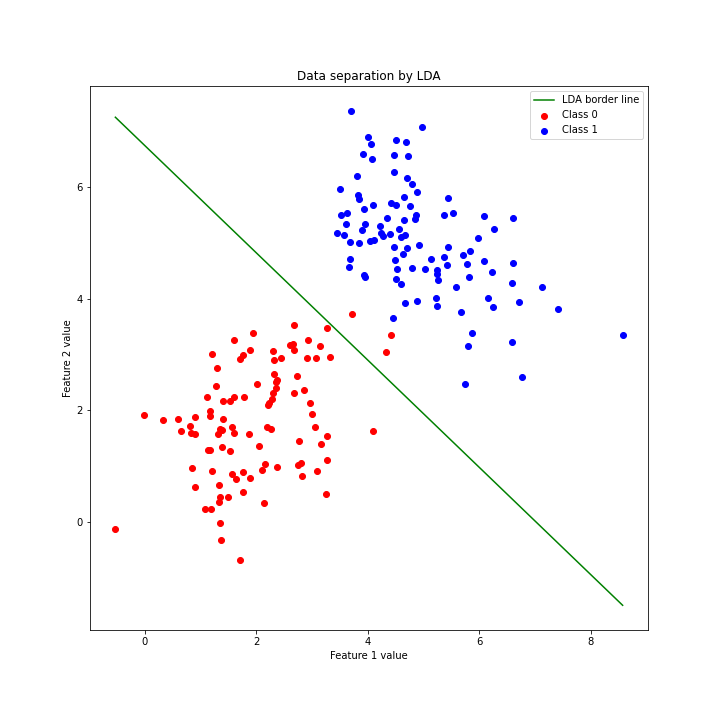
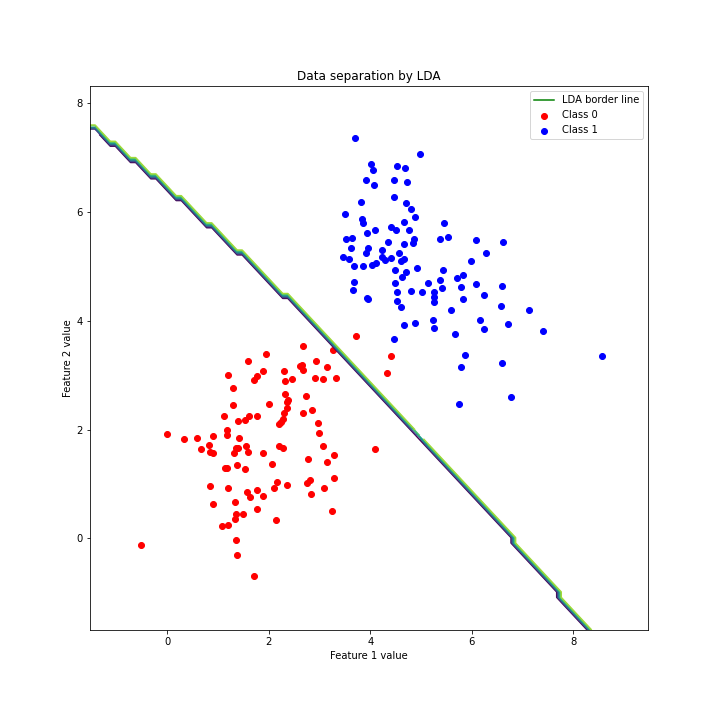
refactor find_border function

diff --git a/lab_1/BinaryClassifiers.py b/lab_1/BinaryClassifiers.py
@@ -72,6 +72,30 @@ class BinaryClassifier(ABC):
     def get_params(self) -> dict:
         ...
 
+    def find_border(self) -> tuple[np.array, np.array, np.array]:
+        """
+        Looking for x, z, y parameters for drawing border line between classes.
+        """
+        x_min = self.x[:, 0].min() - 1
+        x_max = self.x[:, 0].max() + 1
+
+        y_min = self.x[:, 1].min() - 1
+        y_max = self.x[:, 1].max() + 1
+
+        xx, yy = np.meshgrid(
+            np.arange(x_min, x_max, 0.1),
+            np.arange(y_min, y_max, 0.1)
+            )
+
+        z = np.array(
+            [
+                self.predict([a, b])
+                for a, b in zip(np.ravel(xx), np.ravel(yy))
+            ]
+            ).reshape(xx.shape)
+
+        return xx, yy, z
+
 
 class LDA(BinaryClassifier):
     def _calc_avg(self) -> dict[str, np.array]:
@@ -124,30 +148,6 @@ class LDA(BinaryClassifier):
         self.class_avg: dict[str, np.array] = self._calc_avg()
         self.class_std: dict[str, np.array] = self._calc_std()
         self.cov_matrix: np.array = self._calc_cov_matrix()
-
-    def find_border(self) -> tuple[float, float, float]:
-        """
-        Calculating border line between classes.
-        Function calculatin parameters: a, b, c
-        Which you can use to calc the line based on x points:
-            y(x) = -(c + a*x) / b
-
-        Output:
-         * parameters: tuple[float, flaot, float]
-        """
-        cov_inv = np.linalg.inv(self.cov_matrix)
-
-        a = (self.class_avg[0] - self.class_avg[1]).dot(cov_inv)[0]
-        b = (self.class_avg[0] - self.class_avg[1]).dot(cov_inv)[1]
-        c = (
-            -0.5 *
-            (
-                self.class_avg[0].dot(cov_inv).dot(self.class_avg[0]) -
-                self.class_avg[1].dot(cov_inv).dot(self.class_avg[1])
-            )
-        )
-
-        return a, b, c
 
     def predict_proba(self, x: list, the_class: str) -> float:
         class_prob = 1
@@ -218,27 +218,6 @@ class QDA(BinaryClassifier):
             "cov_matrix": self.cov_matrix
         }
 
-    def find_border(self) -> tuple[np.array, np.array, np.array]:
-        x_min = self.x[:, 0].min() - 1
-        x_max = self.x[:, 0].max() + 1
-
-        y_min = self.x[:, 1].min() - 1
-        y_max = self.x[:, 1].max() + 1
-
-        xx, yy = np.meshgrid(
-            np.arange(x_min, x_max, 0.1),
-            np.arange(y_min, y_max, 0.1)
-            )
-
-        z = np.array(
-            [
-                self.predict([a, b])
-                for a, b in zip(np.ravel(xx), np.ravel(yy))
-            ]
-            ).reshape(xx.shape)
-
-        return xx, yy, z
-
 
 class NaiveBayes(BinaryClassifier):
     def fit(self, x: list[list], y: list) -> None:
@@ -261,24 +240,3 @@ class NaiveBayes(BinaryClassifier):
 
     def get_params(self) -> dict:
         return self.feature_stats
-
-    def find_border(self) -> tuple[np.array, np.array, np.array]:
-        x_min = self.x[:, 0].min() - 1
-        x_max = self.x[:, 0].max() + 1
-
-        y_min = self.x[:, 1].min() - 1
-        y_max = self.x[:, 1].max() + 1
-
-        xx, yy = np.meshgrid(
-            np.arange(x_min, x_max, 0.1),
-            np.arange(y_min, y_max, 0.1)
-            )
-
-        z = np.array(
-            [
-                self.predict([a, b])
-                for a, b in zip(np.ravel(xx), np.ravel(yy))
-            ]
-            ).reshape(xx.shape)
-
-        return xx, yy, z
